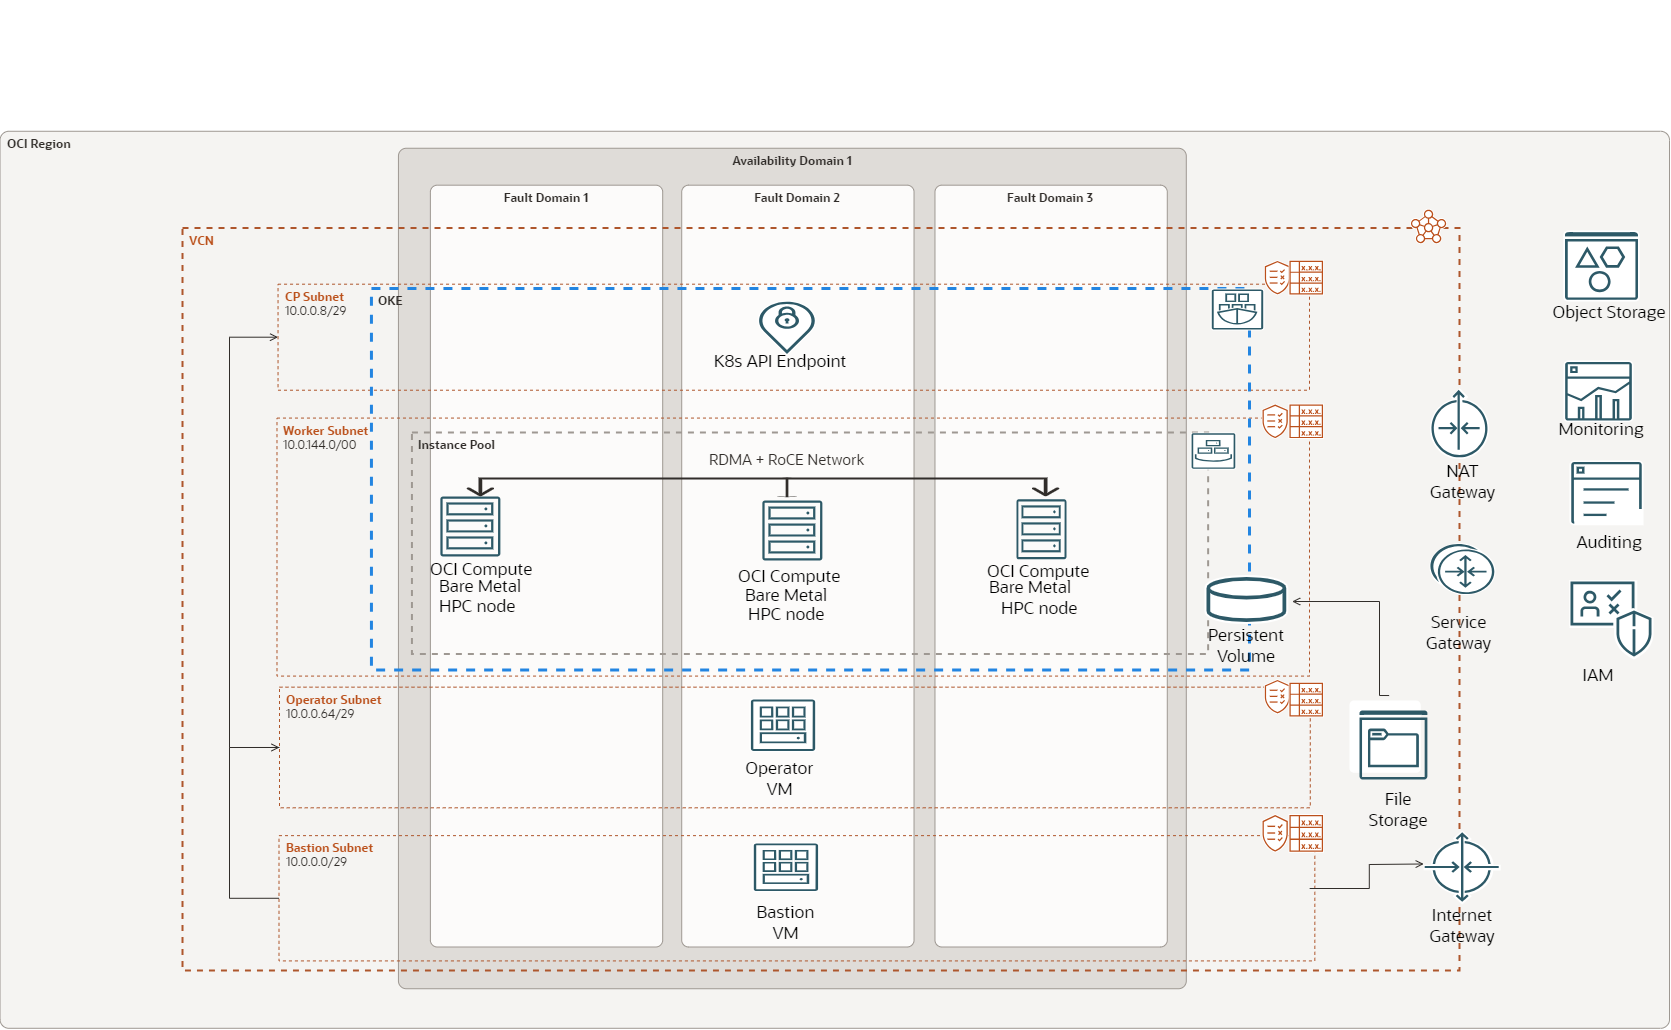
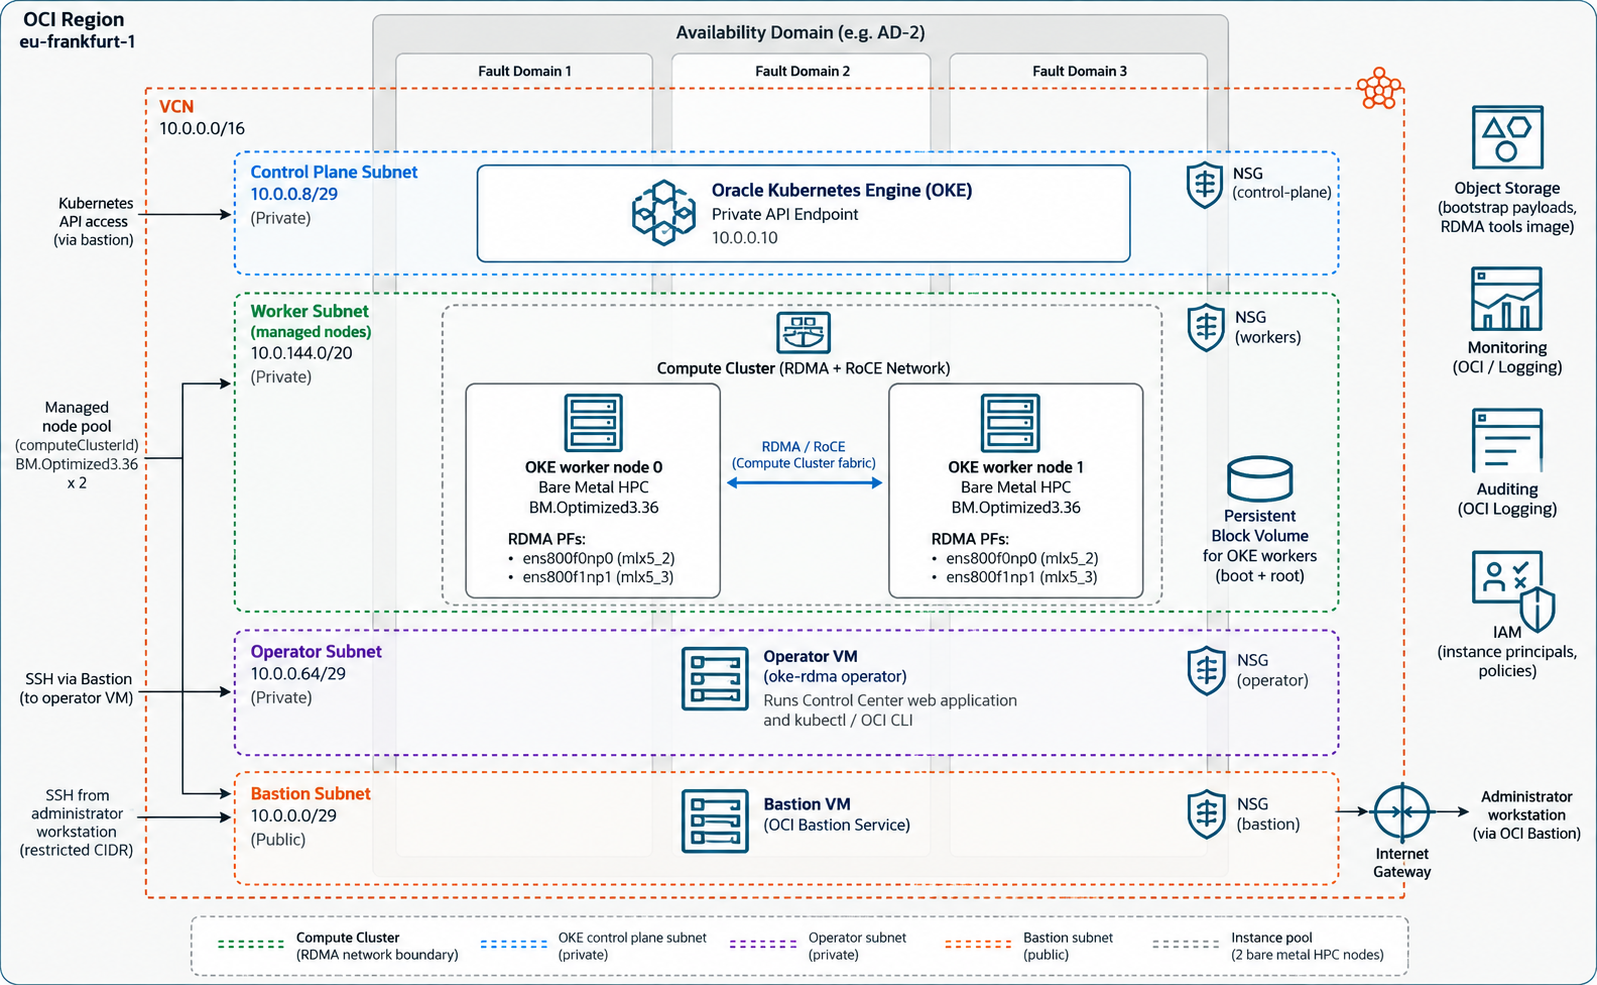
update readme

diff --git a/README.md b/README.md
@@ -24,22 +24,8 @@ unprivileged pods with hostNetwork=false
 
 MacVLAN, IPvlan and generic host-device alternatives are not included. `SriovNetwork`, NVIDIA IPAM and the generated network attachment are treated as required SR-IOV/VF plumbing.
 
-## What v1.2.0 improves
+![OKE RDMA](Architecture/oci-hpc-arc.png)
 
-This release incorporates the operational lessons from a real first deployment:
-
-- installs the OCI CLI in a dedicated bootstrap virtual environment and calls it by absolute path;
-- sets an explicit cloud-init/systemd `PATH`;
-- uses valid `oci os object get` syntax and reports bootstrap failures accurately;
-- waits a bounded one-hour window for exact-instance dynamic-group/IAM convergence;
-- installs Certificate Manager before NVIDIA Network Operator;
-- resolves exact live OKE add-on version spellings, including leading `v` prefixes;
-- configures the operator host firewall to allow TCP/8000 only from the Bastion private endpoint;
-- creates shell helpers for the UI token, kubeconfig and health diagnostics;
-- provides a **Managed nodes** page that queries Kubernetes, OCI Compute, OCI Instance Agent plugin state, and `SriovNetworkNodeState` without requiring SSH;
-- blocks VF creation when nodes disagree on MTU, required OCI RDMA plugins are unhealthy, or the detected PF resembles a VCN/control-plane NIC rather than the RDMA fabric;
-- optionally provisions a break-glass worker SSH key and the narrowly scoped operator-to-worker TCP/22 NSG rule; this is disabled by default;
-- keeps the browser/API command boundary allowlisted—there is no arbitrary shell or manifest endpoint.
 
 ## Architecture and ownership boundary
 
